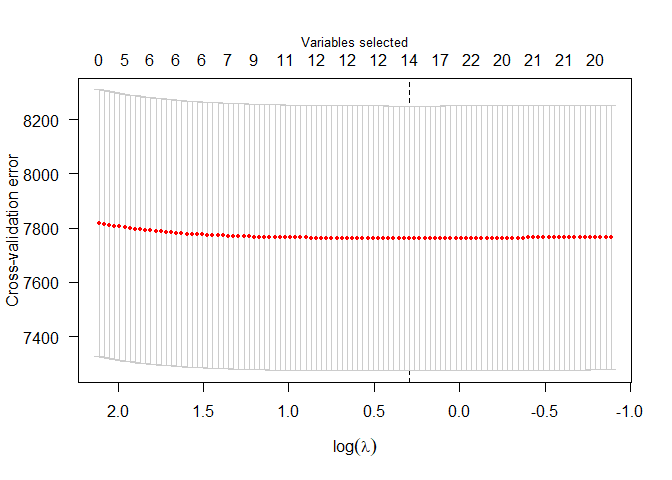
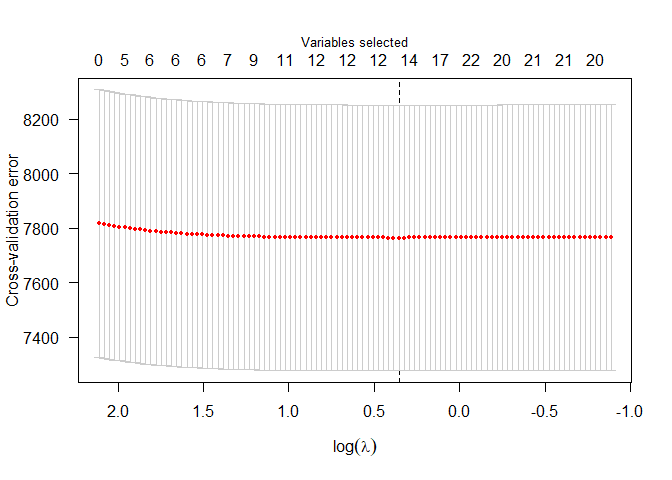
Correct repo name in README.md

diff --git a/README.md b/README.md
@@ -16,7 +16,7 @@ This installation process might be quite long. Once `CARET` have been installed,
 
 ``` r
 install.packages("devtools")
-devtools::install_github("linogaliana/OpenCancer")
+devtools::install_github("EpidemiumOpenCancer/OpenCancer")
 ```
 
 By default, `Vignettes` are not built. If you want to build `Vignettes`, use `devtools::install_github("linogaliana/OpenCancer", build_vignettes = TRUE)`. However, `Vignettes` building might be time-consuming. You can find them [here](http://htmlpreview.github.io/?https://github.com/linogaliana/OpenCancer/blob/master/vignettes/import_data.html) and [here](http://htmlpreview.github.io/?https://github.com/linogaliana/OpenCancer/blob/master/vignettes/estimation_pointers.html)
@@ -93,15 +93,15 @@ summary(lassomodel$model)
 ```
 
     ## lasso-penalized linear regression with n=5928, p=8185
-    ## At minimum cross-validation error (lambda=1.3428):
+    ## At minimum cross-validation error (lambda=1.4266):
     ## -------------------------------------------------
     ##   Nonzero coefficients: 14
-    ##   Cross-validation error (deviance): 7762.11
+    ##   Cross-validation error (deviance): 7764.09
     ##   R-squared: 0.01
     ##   Signal-to-noise ratio: 0.01
-    ##   Scale estimate (sigma): 88.103
+    ##   Scale estimate (sigma): 88.114
 
-From an initial number of parameters of 8186, LASSO selects 15 variables
+From an initial number of parameters of 8186, LASSO selects 14 variables
 
 If parallelization is wanted, assuming one core is let aside of computations,
 
@@ -126,9 +126,32 @@ pooledOLS <- big.model.FElasso(X,yvar = "incidence",
 summary(pooledOLS)
 ```
 
+    ## Large data regression model: biglm(formula = formula, data = data, ...)
+    ## Sample size =  5928 
+    ##                       Coef      (95%      CI)       SE      p
+    ## (Intercept)       -30.7155 -750.7751 689.3442 360.0298 0.9320
+    ## sex                 4.7179    0.1425   9.2934   2.2877 0.0392
+    ## `6741..72040`       0.6884 -131.8030 133.1799  66.2457 0.9917
+    ## EN.ATM.NOXE.EG.ZS   0.7427  -28.0595  29.5450  14.4011 0.9589
+    ## `6690..5110`       -0.0008   -0.0465   0.0449   0.0228 0.9713
+    ## `1057..5112`        0.0000   -0.0004   0.0004   0.0002 0.9928
+    ## `358..5312`         0.0003   -0.0128   0.0134   0.0065 0.9642
+    ## `372..5510`         0.0000   -0.0004   0.0004   0.0002 0.9724
+    ## `1062..5510`        0.0000   -0.0002   0.0002   0.0001 0.9644
+    ## `2600..5510`        0.0000   -0.0001   0.0001   0.0001 0.9745
+    ## `1780..5510`        0.0000    0.0000   0.0000   0.0000 0.9319
+    ## `51..5510`          0.0000    0.0000   0.0000   0.0000 0.9992
+    ## `2737..5141`            NA        NA       NA       NA     NA
+    ## `882..5510`             NA        NA       NA       NA     NA
+    ## `1765..5510`            NA        NA       NA       NA     NA
+    ## `2737..641`             NA        NA       NA       NA     NA
+    ## `1096..5111`            NA        NA       NA       NA     NA
+
+The `DTsummary.biglm` can be used to produce an HTML summary table.
+
 ``` r
-DTsummary.biglm(pooledOLS)$coefftab
-DTsummary.biglm(pooledOLS)$modeltab
+DTsummary.biglm(pooledOLS)
+DTsummary.biglm(pooledOLS)
 ```
 
 Apply same methodology with independent groups
